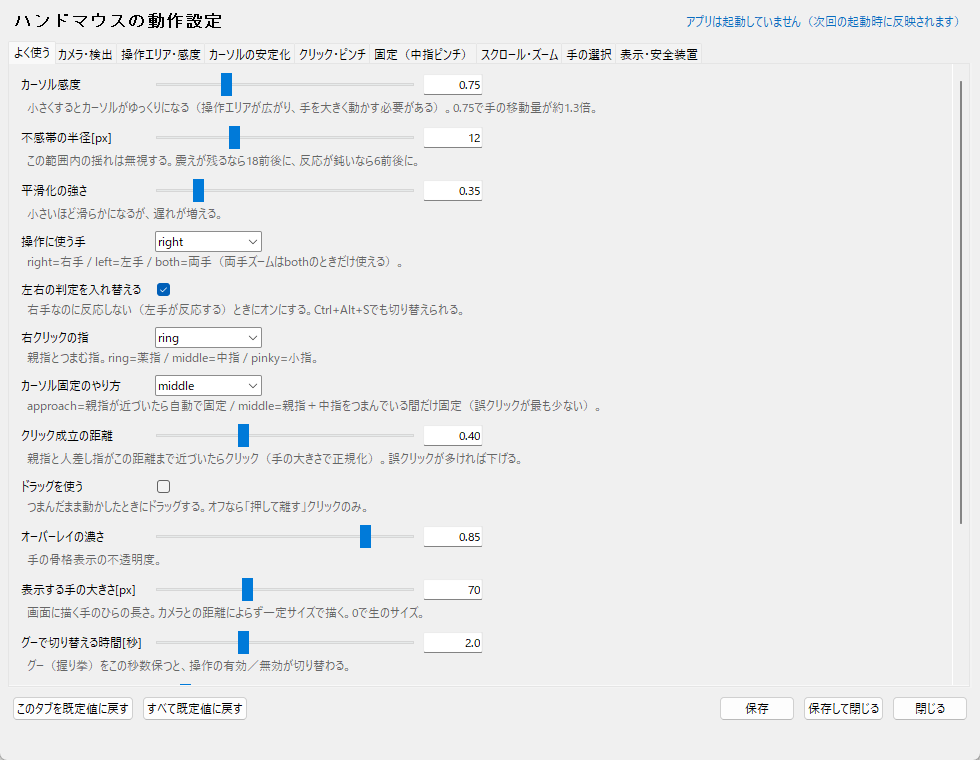
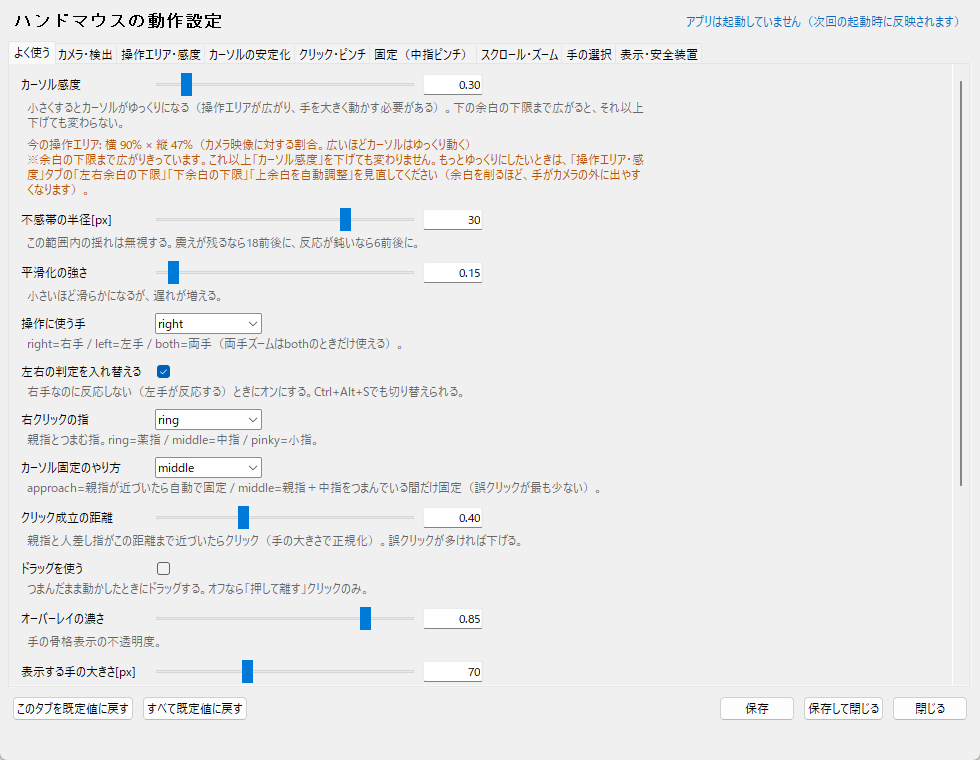
カーソル感度の下限を0.1にし、効き目を設定画面に表示する
感度を下げても操作エリアは min_margin_* より外へは広がらないため、
既定の余白では0.5あたりで頭打ちになり、そこから下げても何も変わらない。
下限を広げるだけでは「変えたのに変わらない」ことになるので、
設定画面に今の操作エリアの広さを出し、頭打ちなら理由と対処を知らせる。

- config.py: active_area のクランプを 0.3 → 0.05 に緩める
- settings_schema.py: cursor_gain の下限を 0.1 に。余白の下限の説明を補う
- settings_gui.py: 「今の操作エリア: 横 n% × 縦 n%」を感度の下に表示し、
  頭打ちなら余白を見直すよう案内する（映像いっぱいのときは別の案内）

diff --git a/scripts/hm_core/settings_gui.py b/scripts/hm_core/settings_gui.py
@@ -19,6 +19,16 @@ LABEL_WIDTH = 22
 DESC_WRAP = 620
 GRAY = "#666666"
 ACCENT = "#0a6cbf"
+WARN = "#b45309"
+
+# 操作エリアの広さに関わる項目。どれかが変われば「効き目」の表示を作り直す
+AREA_FIELDS = ("cursor_gain", "active_margin_x", "active_margin_top", "active_margin_bottom",
+               "min_margin_x", "min_margin_top", "min_margin_bottom",
+               "adaptive_top_margin", "finger_reach_factor", "adaptive_margin_pad")
+# この項目の下に効き目を出す（感度を下げても変わらないことがあるため）
+EFFECT_AFTER = "cursor_gain"
+# 効き目を計算するときの手の映り方（手のひら長、正規化座標）。標準的な距離の目安
+REFERENCE_PALM = 0.15
 
 
 def _round_step(value, step):
@@ -52,6 +62,7 @@ class SettingsApp:
         self.items = {}       # name -> Item
         self.canvases = {}    # タブの表示名 -> Canvas（ホイール操作用）
         self.saved = {}       # 最後に保存した値（再起動が要る変更の検出用）
+        self.effect_labels = []   # 感度の効き目を出すラベル（タブごとに1つ）
         self.dirty = False
 
         self.root = tk.Tk()
@@ -86,6 +97,12 @@ class SettingsApp:
 
         self._build_buttons()
         self.root.bind_all("<MouseWheel>", self._on_wheel)
+
+        for name in AREA_FIELDS:
+            var = self.vars.get(name)
+            if var is not None:
+                var.trace_add("write", lambda *_a: self._update_effect())
+        self._update_effect()
 
     def _scrollable(self, parent, title):
         """縦スクロールできる領域を作り、中身を置くフレームを返す。"""
@@ -159,6 +176,11 @@ class SettingsApp:
             ttk.Label(row, text=item.desc, foreground=GRAY, wraplength=DESC_WRAP,
                       justify="left").pack(fill="x", padx=(6, 0))
 
+        if item.name == EFFECT_AFTER:
+            note = ttk.Label(row, wraplength=DESC_WRAP, justify="left")
+            note.pack(fill="x", padx=(6, 0), pady=(3, 0))
+            self.effect_labels.append(note)
+
     def _add_number(self, parent, item, var):
         """数値項目: スライダーと直接入力欄（どちらを動かしても同じ値になる）。"""
         text = self.texts.get(item.name)
@@ -219,6 +241,61 @@ class SettingsApp:
         value = min(max(value, item.lo), item.hi)
         var.set(int(round(value)) if item.kind == "int" else value)
         self._sync_text(item)
+
+    # --- 感度の効き目 -----------------------------------------------
+    @staticmethod
+    def _area_size(cfg):
+        x0, y0, x1, y1 = cfg.active_area(REFERENCE_PALM)
+        return x1 - x0, y1 - y0
+
+    def _area_values(self):
+        """画面の値だけを入れた Config（操作エリアの計算用）。"""
+        cfg = Config()
+        for name in AREA_FIELDS:
+            setattr(cfg, name, self.vars[name].get())
+        return cfg
+
+    def _update_effect(self):
+        """今の値で操作エリアがどれだけ広がるかを出す。
+
+        感度を下げてもエリアは余白の下限より外へは広がらない。その状態になったら
+        「これ以上下げても変わらない」と伝える（下げたのに何も起きない、を防ぐ）。
+        """
+        if not self.effect_labels:
+            return
+        try:
+            base, slower, loosened = (self._area_values() for _ in range(3))
+        except (tk.TclError, KeyError, ValueError):
+            return
+
+        width, height = self._area_size(base)
+        # さらに感度を下げても広がらないなら、余白の下限に達している
+        slower.cursor_gain = max(0.05, float(slower.cursor_gain) * 0.7)
+        sw, sh = self._area_size(slower)
+        capped = abs(sw - width) < 1e-6 and abs(sh - height) < 1e-6
+
+        text = (f"今の操作エリア: 横 {width * 100:.0f}% × 縦 {height * 100:.0f}%"
+                "（カメラ映像に対する割合。広いほどカーソルはゆっくり動く）")
+        color = ACCENT
+        if capped:
+            # 余白を削ればまだ広がるのか、もう映像いっぱいなのかで案内を変える
+            loosened.min_margin_x = 0.0
+            loosened.min_margin_top = 0.0
+            loosened.min_margin_bottom = 0.0
+            loosened.adaptive_top_margin = False
+            lw, lh = self._area_size(loosened)
+            color = WARN
+            # 「※」の後に半角スペースを置くと、そこで折り返されて「※」だけの行ができる
+            if lw > width + 1e-6 or lh > height + 1e-6:
+                text += ("\n※余白の下限まで広がりきっています。これ以上「カーソル感度」を下げても変わりません。"
+                         "もっとゆっくりにしたいときは、「操作エリア・感度」タブの"
+                         "「左右余白の下限」「下余白の下限」「上余白を自動調整」を見直してください"
+                         "（余白を削るほど、手がカメラの外に出やすくなります）。")
+            else:
+                text += ("\n※カメラ映像をいっぱいに使っています。この方式（手の位置＝カーソル位置）では"
+                         "これが一番ゆっくりの状態です。")
+        for label in self.effect_labels:
+            label.configure(text=text, foreground=color)
 
     def _mark_dirty(self):
         if not self.dirty:

diff --git a/scripts/hm_core/settings_schema.py b/scripts/hm_core/settings_schema.py
@@ -56,8 +56,9 @@ ITEMS = (
 
     # --- 操作エリア・感度 ---
     Item("cursor_gain", "カーソル感度",
-         "小さくするとカーソルがゆっくりになる（操作エリアが広がり、手を大きく動かす必要がある）。0.75で手の移動量が約1.3倍。",
-         "float", 0.3, 2.0, 0.05),
+         "小さくするとカーソルがゆっくりになる（操作エリアが広がり、手を大きく動かす必要がある）。"
+         "下の余白の下限まで広がると、それ以上下げても変わらない。",
+         "float", 0.1, 2.0, 0.05),
     Item("active_margin_x", "操作エリアの左右余白",
          "カメラ映像の左右で使わない範囲。小さくすると手の移動量が減るが、画面の端が使いにくくなる。",
          "float", 0.0, 0.4, 0.01),
@@ -68,11 +69,14 @@ ITEMS = (
          "基準点より下に手首があるぶんの余白。詰めると画面下端を狙うときに手首が切れて検出が不安定になる。",
          "float", 0.0, 0.45, 0.01),
     Item("min_margin_x", "左右余白の下限",
-         "感度を下げてエリアを広げるときに、これ以上フレーム端へ寄せない下限。",
+         "感度を下げてエリアを広げるときに、これ以上フレーム端へ寄せない下限。"
+         "感度を下げても変わらないときはここを下げる（下げすぎると端で検出が荒れる）。",
          "float", 0.0, 0.3, 0.01),
-    Item("min_margin_top", "上余白の下限", "同上（上端）。",
+    Item("min_margin_top", "上余白の下限",
+         "同上（上端）。ただし「上余白を自動調整」が入っていると、そちらが優先されることが多い。",
          "float", 0.0, 0.4, 0.01),
-    Item("min_margin_bottom", "下余白の下限", "同上（下端）。",
+    Item("min_margin_bottom", "下余白の下限",
+         "同上（下端）。下げすぎると画面下端を狙うときに手首がフレームから切れる。",
          "float", 0.0, 0.4, 0.01),
     Item("adaptive_top_margin", "上余白を自動調整",
          "映っている手の大きさから上の余白を決める。手が大きく映る環境でも指先が映像内に収まる。",

diff --git a/scripts/hm_core/config.py b/scripts/hm_core/config.py
@@ -166,8 +166,12 @@ class Config:
         フレーム端に寄り過ぎないよう各余白の最小値で止める。
         palm_size（映っている手のひら長、正規化座標）を渡すと、指先がフレーム外に
         出ない高さまで上端を下げる（adaptive_top_margin）。
+
+        gain を小さくしてもエリアは min_margin_* より外へは広がらないので、
+        ある値から先は感度を下げても何も変わらない（設定画面がそれを表示する）。
+        もっと遅くしたいときは min_margin_* も下げる必要がある。
         """
-        gain = max(0.3, float(self.cursor_gain))
+        gain = max(0.05, float(self.cursor_gain))
 
         def expand(lo, hi, min_lo, min_hi):
             span = 1.0 - lo - hi

diff --git a/README.md b/README.md
@@ -150,7 +150,7 @@ uv run scripts/hand_mouse.py
 | `pinch_arm` | 0.7 | 親指が人差し指へこの距離まで近づいてきたらカーソルを固定（クリック準備）。0で無効 |
 | `arm_cancel_px` / `arm_timeout_sec` | 30 / 1.0 | 固定中に手がこれ以上動く、またはこの秒数ピンチしなければ固定を自動解除 |
 | `cursor_landmark` | `palm` | カーソルの基準点。`palm`（手のひら中心、最も安定）/ `index_mcp`（人差し指の付け根）/ `index_tip`（指先。狙いやすいがブレる） |
-| `cursor_gain` | 1.0 | カーソル感度。**小さくするとカーソルがゆっくり**になる（操作エリアが広がり、手を大きく動かす必要がある）。0.75 で手の移動量が約1.3倍 |
+| `cursor_gain` | 1.0 | カーソル感度。**小さくするとカーソルがゆっくり**になる（操作エリアが広がり、手を大きく動かす必要がある）。0.75 で手の移動量が約1.3倍。下の余白の下限まで広がると、それ以上下げても変わらない |
 | `min_margin_x` / `min_margin_top` / `min_margin_bottom` | 0.05 / 0.24 / 0.25 | `cursor_gain` でエリアを広げるときの余白の下限（フレーム端に寄り過ぎて検出が荒れるのを防ぐ） |
 | `active_margin_x` | 0.18 | 操作エリアの左右の余白。小さくすると手の移動量が減るが、端が使いにくくなる |
 | `active_margin_top` / `active_margin_bottom` | 0.26 / 0.32 | 操作エリアの上下の余白。上は指の長さぶん、下は手首のぶん必要（詰めると画面の端を狙うときに指先や手首がフレームから切れ、ピンチ判定が効かなくなる） |
@@ -208,9 +208,18 @@ F8等のカメラOFFキー、メーカー製ユーティリティのプライバ
 手元を明るくするのが最も効果的です。`num_hands` を1にするのも有効です。
 
 **カーソルの動きが速すぎる / 遅すぎる**
-`cursor_gain` を下げると操作エリアが広がり、同じ距離を動かすのに手を大きく動かすことになる＝
-カーソルはゆっくりになります。ただしカメラの映り方（上は指、下は手首が切れる）で操作エリアを
-広げられる範囲には限界があり、特に縦方向はあまり遅くできません。
+`cursor_gain`（設定画面の「カーソル感度」）を下げると操作エリアが広がり、同じ距離を動かすのに
+手を大きく動かすことになる＝カーソルはゆっくりになります。
+
+ただし**ある値から先は、下げても何も変わりません**。操作エリアは `min_margin_x` /
+`min_margin_top` / `min_margin_bottom`（余白の下限）より外へは広がらないためで、既定の余白では
+感度0.5あたりで頭打ちになります。設定画面は今の操作エリアの広さを表示し、頭打ちになったら
+知らせるので、まずそれを見てください。
+
+その先もゆっくりにしたいときは、余白の下限を下げます（例: 左右0.02 / 下0.15 で縦のエリアが
+47%→57%に広がる）。ただしカメラの映り方の制約（基準点の手のひら中心より上に指、下に手首がある）で
+広げられる範囲には限界があり、削るほど指先や手首がフレームから切れて、ピンチ判定が効かなく
+なりやすくなります。少しずつ試してください。
 
 **カーソルが細かく震える / 位置が定まらない**
 `stabilizer_radius` を 15 程度に上げると静止時の揺れが消えます。まだ揺れるなら
